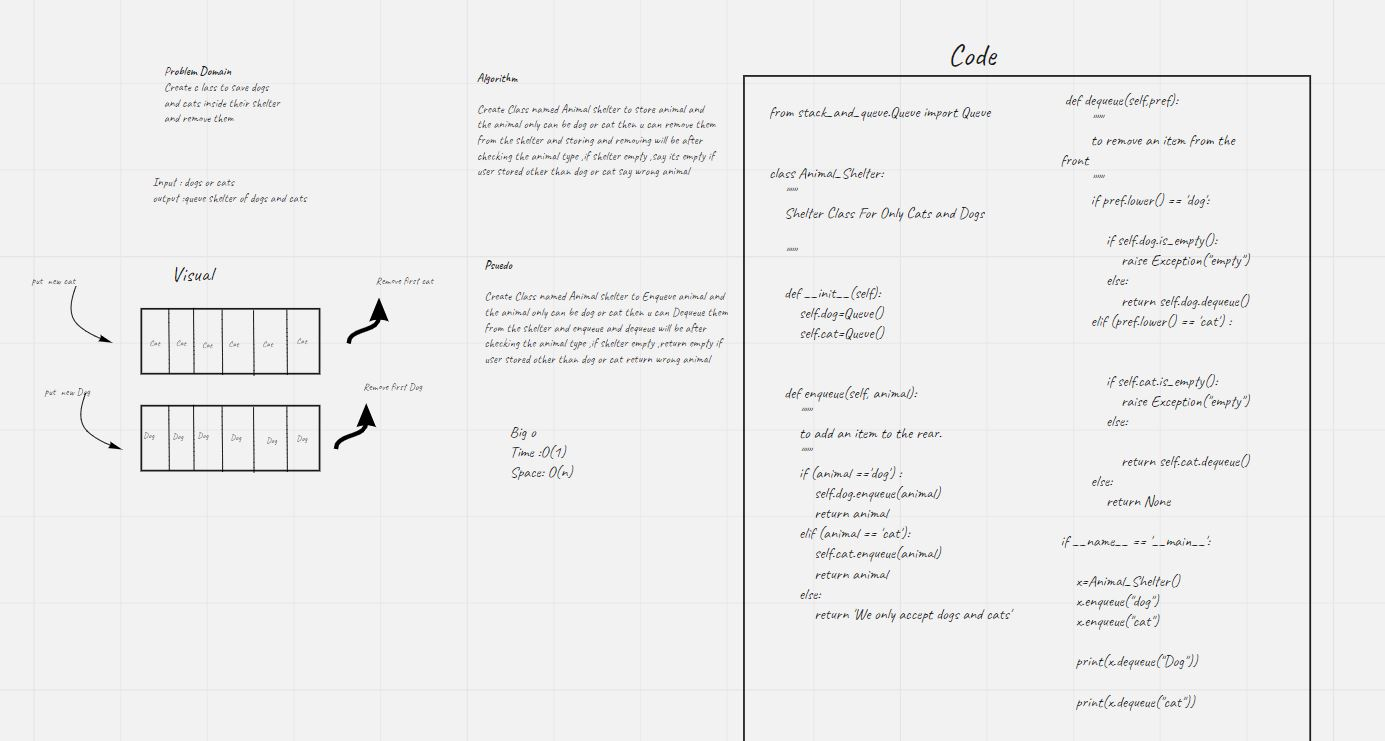
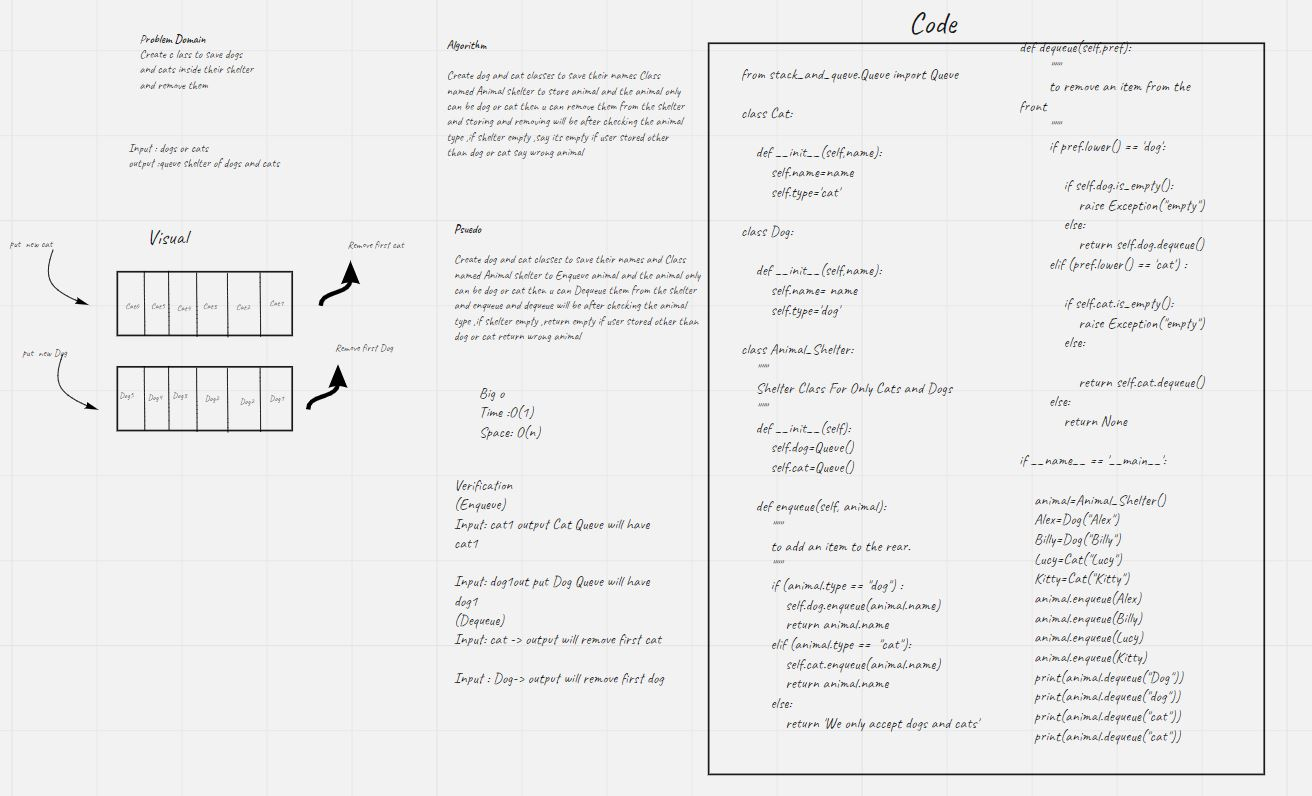
Created dog and cat classes to store thier names

diff --git a/python/code_challenges/stack-and-queue/tests/test_queue_shelter.py b/python/code_challenges/stack-and-queue/tests/test_queue_shelter.py
@@ -1,4 +1,4 @@
-from stack_and_queue.stack_queue_animal_shelter import Animal_Shelter
+from stack_and_queue.stack_queue_animal_shelter import Animal_Shelter ,Dog,Cat
 import pytest
 
 
@@ -8,12 +8,12 @@ def test_enqueue_dog():
     """
     Testing enqueue method for a queue
     """
-    dog_queue = Animal_Shelter()
 
+    animal=Animal_Shelter()
+    Alex=Dog("Alex")
 
-
-    expected = "dog"
-    actual =dog_queue.enqueue("dog")
+    expected = "Alex"
+    actual =animal.enqueue(Alex)
 
     assert expected == actual
 
@@ -22,39 +22,30 @@ def test_enqueue_cat():
     """
     Testing enqueue method for a queue
     """
-    cat_queue = Animal_Shelter()
+    animal=Animal_Shelter()
+    Lucy=Cat("Lucy")
 
-
-
-    expected = "cat"
-    actual =cat_queue.enqueue("cat")
-
+    actual =animal.enqueue(Lucy)
+    expected = "Lucy"
     assert expected == actual
 
 
-
-def test_enqueue_other():
-    """
-    Testing enqueue method for a queue
-    """
-    other_queue = Animal_Shelter()
+#
 
 
-
-    expected = 'We only accept dogs and cats'
-    actual =other_queue.enqueue("wolf")
-
-    assert expected == actual
 
 
 def test_dequeue_cat():
     """
     Testing dequeue method for a queue
     """
-    cat_queue = Animal_Shelter()
-    cat_queue.enqueue("cat")
-    expected = "cat"
-    actual = cat_queue.dequeue("cat")
+    animal=Animal_Shelter()
+    Lucy=Cat("Lucy")
+
+    animal.enqueue(Lucy)
+
+    expected = "Lucy"
+    actual = animal.dequeue("cat")
 
     assert expected == actual
 
@@ -64,25 +55,38 @@ def test_dequeue_dog():
     """
     Testing dequeue method for a queue
     """
-    dog_queue = Animal_Shelter()
-    dog_queue.enqueue("dog")
-    expected = "dog"
-    actual = dog_queue.dequeue("dog")
+    animal=Animal_Shelter()
+    Billy=Dog("Billy")
+
+    animal.enqueue(Billy)
+
+    expected = "Billy"
+    actual = animal.dequeue("dog")
+
+    assert expected == actual
+
+
+def test_dequeue_other_animals():
+    """
+    Testing dequeue method for a queue
+    """
+    animal=Animal_Shelter()
+
+    Billy=Dog("Billy")
+    animal.enqueue(Billy)
+
+    Lucy=Cat("Lucy")
+    animal.enqueue(Lucy)
+
+    expected = None
+    actual = animal.dequeue("wolf")
 
     assert expected == actual
 
 
 
 
-def test_dequeue_empty_dog():
-    """
-    Testing dequeue method for a queue
-    """
-    with pytest.raises(Exception):
-        dog_queue = Animal_Shelter()
 
-
-        dog_queue.dequeue("dog")
 
 
 
@@ -91,9 +95,22 @@ def test_dequeue_empty_cat():
     Testing dequeue method for a queue
     """
     with pytest.raises(Exception):
-        cat_queue = Animal_Shelter()
+        animal=Animal_Shelter()
+        Lucy=Cat("Lucy")
+
+        animal.dequeue("cat")
 
 
-        cat_queue.dequeue("cat")
+def test_dequeue_empty_dog():
+    """
+    Testing dequeue method for a queue
+    """
+    with pytest.raises(Exception):
+        animal=Animal_Shelter()
+        Billy=Dog("Billy")
+
+        animal.dequeue("dog")
+
+
 
 

diff --git a/python/code_challenges/stack-and-queue/stack_and_queue/stack_queue_animal_shelter.py b/python/code_challenges/stack-and-queue/stack_and_queue/stack_queue_animal_shelter.py
@@ -1,32 +1,37 @@
-from stack_and_queue.Node import Node
 from stack_and_queue.Queue import Queue
 
+class Cat:
+
+    def __init__(self,name):
+        self.name=name
+        self.type='cat'
+
+class Dog:
+
+    def __init__(self,name):
+        self.name= name
+        self.type='dog'
 
 class Animal_Shelter:
     """
     Shelter Class For Only Cats and Dogs
-
-
     """
-
     def __init__(self):
         self.dog=Queue()
         self.cat=Queue()
-
 
     def enqueue(self, animal):
         """
         to add an item to the rear.
         """
-        if (animal =='dog') :
-            self.dog.enqueue(animal)
-            return animal
-        elif (animal == 'cat'):
-            self.cat.enqueue(animal)
-            return animal
+        if (animal.type == "dog") :
+            self.dog.enqueue(animal.name)
+            return animal.name
+        elif (animal.type ==  "cat"):
+            self.cat.enqueue(animal.name)
+            return animal.name
         else:
             return 'We only accept dogs and cats'
-
 
     def dequeue(self,pref):
         """
@@ -40,7 +45,6 @@ class Animal_Shelter:
                 return self.dog.dequeue()
         elif (pref.lower() == 'cat') :
 
-
             if self.cat.is_empty():
                 raise Exception("empty")
             else:
@@ -50,17 +54,33 @@ class Animal_Shelter:
             return None
 
 
-
-
 if __name__ == '__main__':
 
-    x=Animal_Shelter()
-    x.enqueue("dog")
-    x.enqueue("cat")
+    animal=Animal_Shelter()
+    Alex=Dog("Alex")
+    Billy=Dog("Billy")
+    Lucy=Cat("Lucy")
+    Kitty=Cat("Kitty")
 
-    print(x.dequeue("Dog"))
+    animal.enqueue(Alex)
+    animal.enqueue(Billy)
 
-    print(x.dequeue("cat"))
+    animal.enqueue(Lucy)
+    animal.enqueue(Kitty)
+
+    print(animal.dequeue("Dog"))
+    print(animal.dequeue("dog"))
+
+    print(animal.dequeue("cat"))
+    print(animal.dequeue("cat"))
+
+
+
+
+
+
+
+
 
 
 

diff --git a/python/code_challenges/stack-and-queue/README.md b/python/code_challenges/stack-and-queue/README.md
@@ -18,7 +18,7 @@ Space O(n)
 
 Input	                  Args	          Output
 
-[cat]->[cat]->[cat]      	cat	      [cat]->[cat]->[cat]  ->[cat]
+[cat]->[cat]->[cat]      	cat1	      [cat]->[cat]->[cat]  ->[cat1]
 Input	                              [dog]->[dog]->[dog]->[dog]
 [dog]->[dog]->[dog]->[dog]
 
@@ -28,7 +28,7 @@ Input	                              [dog]->[dog]->[dog]->[dog]
 
 Input	                  Args	          Output
 
-[cat]->[cat]->[cat]      	cat	      [cat]->[cat]
+[cat]->[cat]->[cat1]      	cat1      [cat]->[cat]
 Input	                              [dog]->[dog]->[dog]->[dog]
 [dog]->[dog]->[dog]->[dog]
 
